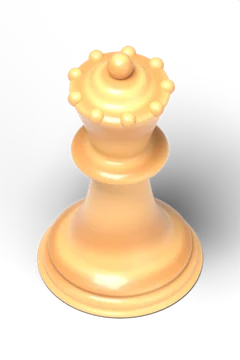
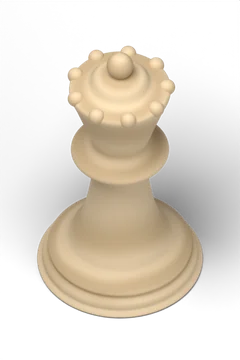
3D Wood pieces: satin ivory and walnut materials
Cause: saturated orange wood (#e3ac68), a glossy clear coat (0.35, roughness 0.12)
over roughness 0.42, and lights tuned for darker wood blew highlights out to gold and
chrome. Fix in the render script only (geometry, camera and framing unchanged):
- colours #d4be9c/#bea580 (white, ~#CBB18C) and #503a2d/#382a23 (black, ~#493428)
- metallic 0, roughness 0.70/0.68, specular level 0.38, coat 0.03 at 0.8 roughness
- same lights about 40% dimmer and broader; warm, lower world light
Regenerated board pictures, icons and menu art with the same names and sizes.
The board and its code are untouched (empty squares and frame pixel-identical).

Claude-Session: https://claude.ai/code/session_01HPmWpGaJUpGJvnFxrzMRf7

diff --git a/tools/pieces/render-wood3d.py b/tools/pieces/render-wood3d.py
@@ -159,11 +159,18 @@ def wood(name, light, dark, scale=2.2):
     ramp = n.new("ShaderNodeValToRGB")
     ramp.color_ramp.elements[0].color = (*light, 1); ramp.color_ramp.elements[1].color = (*dark, 1)
     ramp.color_ramp.elements[0].position = 0.25; ramp.color_ramp.elements[1].position = 0.95
+    # A gentle grain: the two colours are close, so the rings read as subtle variation, not stripes.
     l.new(tc.outputs["Object"], mp.inputs["Vector"]); l.new(mp.outputs["Vector"], wave.inputs["Vector"])
     l.new(wave.outputs["Fac"], ramp.inputs["Fac"]); l.new(ramp.outputs["Color"], bsdf.inputs["Base Color"])
-    bsdf.inputs["Roughness"].default_value = 0.42
-    bsdf.inputs["Coat Weight"].default_value = 0.35
-    bsdf.inputs["Coat Roughness"].default_value = 0.12
+    # Satin-finished wood: a dielectric (no metal), rough enough that highlights are broad and
+    # soft, a lowered specular level, and only a trace of a matte clear coat. (It was roughness
+    # 0.42 with a 0.35, 0.12-rough clear coat: mirror-like hot spots that read as gold/chrome.)
+    bsdf.inputs["Metallic"].default_value = 0.0
+    bsdf.inputs["Roughness"].default_value = ROUGHNESS[name]
+    bsdf.inputs["Specular IOR Level"].default_value = 0.38
+    bsdf.inputs["Coat Weight"].default_value = 0.03
+    bsdf.inputs["Coat Roughness"].default_value = 0.8
+    bsdf.inputs["Emission Strength"].default_value = 0.0
     return m
 
 def srgb(h):
@@ -172,11 +179,13 @@ def srgb(h):
 
 def scene():
     sc = bpy.context.scene
-    sc.render.engine = "CYCLES"; sc.cycles.samples = 96; sc.cycles.use_denoising = True; sc.cycles.device = "CPU"
+    sc.render.engine = "CYCLES"; sc.cycles.samples = int(os.environ.get("SAMPLES", 96)); sc.cycles.use_denoising = True; sc.cycles.device = "CPU"
     sc.render.film_transparent = True; sc.render.resolution_x = RES; sc.render.resolution_y = int(RES * TALL) if STYLE == "tabletop" else RES
     sc.view_settings.view_transform = "Standard"; sc.view_settings.look = "None"
     world = bpy.data.worlds.new("w"); sc.world = world; world.use_nodes = True
-    world.node_tree.nodes["Background"].inputs["Color"].default_value = (0.9, 0.9, 0.9, 1); world.node_tree.nodes["Background"].inputs["Strength"].default_value = 0.4
+    # Soft, slightly warm surroundings. (Neutral grey at 0.4 washed the dark pieces out to grey.)
+    world.node_tree.nodes["Background"].inputs["Color"].default_value = (0.92, 0.88, 0.82, 1)
+    world.node_tree.nodes["Background"].inputs["Strength"].default_value = 0.4 if STYLE != "tabletop" else 0.26
     cam = bpy.data.cameras.new("cam"); cam.type = "ORTHO"; cam.ortho_scale = 1.78
     co = bpy.data.objects.new("cam", cam); sc.collection.objects.link(co); sc.camera = co
     if STYLE == "tabletop":
@@ -196,9 +205,12 @@ def scene():
             ld = bpy.data.lights.new(kind, "AREA"); ld.energy = energy; ld.size = size
             lo = bpy.data.objects.new(kind, ld); lo.location = loc; lo.rotation_euler = rot; sc.collection.objects.link(lo)
         # Key light high and in front-left: a short, soft shadow falls behind the piece.
-        light("key", (-1.0, -1.6, 6.0), 560, 3.0, (math.radians(15), 0, math.radians(-30)))
-        light("fill", (3.5, -3.5, 2.5), 110, 4, (math.radians(62), 0, math.radians(45)))
-        light("rim", (1, 4, 4), 380, 2.5, (math.radians(-45), 0, math.radians(170)))
+        # Same lights and directions as before, about 40% dimmer and broader, so a piece's lit
+        # mid-tones land on its own colour instead of blowing out (the lights had been set
+        # for the old darker, orange wood).
+        light("key", (-1.0, -1.6, 6.0), 340, 3.6, (math.radians(15), 0, math.radians(-30)))
+        light("fill", (3.5, -3.5, 2.5), 80, 4.5, (math.radians(62), 0, math.radians(45)))
+        light("rim", (1, 4, 4), 170, 3.0, (math.radians(-45), 0, math.radians(170)))
         return
     el = math.radians(16)
     d = 10
@@ -206,12 +218,17 @@ def scene():
     def light(kind, loc, energy, size, rot):
         ld = bpy.data.lights.new(kind, "AREA"); ld.energy = energy; ld.size = size
         lo = bpy.data.objects.new(kind, ld); lo.location = loc; lo.rotation_euler = rot; sc.collection.objects.link(lo)
-    light("key", (-3, -4, 5), 620, 3.5, (math.radians(45), 0, math.radians(-35)))
-    light("fill", (4, -3, 2), 170, 4, (math.radians(70), 0, math.radians(50)))
-    light("rim", (1, 4, 4), 800, 2.5, (math.radians(-45), 0, math.radians(170)))
+    # Same rig, dimmed and softened to match the tabletop pictures' satin look.
+    light("key", (-3, -4, 5), 380, 4.0, (math.radians(45), 0, math.radians(-35)))
+    light("fill", (4, -3, 2), 120, 4.5, (math.radians(70), 0, math.radians(50)))
+    light("rim", (1, 4, 4), 360, 3.0, (math.radians(-45), 0, math.radians(170)))
 
 BUILD = {"P": pawn, "R": rook, "N": knight, "B": bishop, "Q": queen, "K": king}
-MATS = {"w": ("#e3ac68", "#c98a4b"), "b": ("#3d2213", "#1e0f06")}
+# Piece colours (sRGB hex, converted to linear for Blender by srgb()): warm ivory / champagne
+# wood around #CBB18C and walnut / espresso around #493428, each a light and a dark tone for
+# the grain. (They were #e3ac68/#c98a4b: saturated orange that rendered as gold.)
+MATS = {"w": ("#d4be9c", "#bea580"), "b": ("#503a2d", "#382a23")}
+ROUGHNESS = {"w": 0.70, "b": 0.68}
 
 for colour in ("w", "b"):
     for code, fn in BUILD.items():
